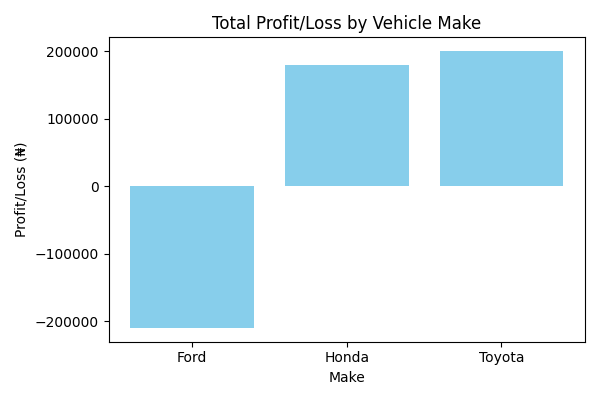
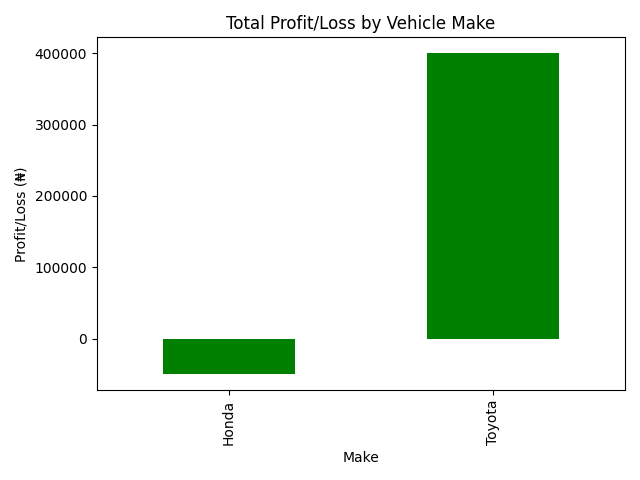
Add files via upload

diff --git a/app.py b/app.py
@@ -1,1 +1,154 @@
-# Placeholder for Abode Car Business Management App
+import streamlit as st
+import pandas as pd
+import os
+from PIL import Image
+
+# Load logo
+if os.path.exists("abode_logo.png"):
+    st.image("abode_logo.png", width=120)
+
+st.title("Abode Car Business Management App")
+
+# Login system
+if "logged_in" not in st.session_state:
+    st.session_state.logged_in = False
+    st.session_state.role = None
+
+def login():
+    st.subheader("Login")
+    username = st.text_input("Username")
+    password = st.text_input("Password", type="password")
+    if st.button("Login"):
+        if username == "admin" and password == "admin123":
+            st.session_state.logged_in = True
+            st.session_state.role = "admin"
+        elif username == "staff" and password == "staff123":
+            st.session_state.logged_in = True
+            st.session_state.role = "staff"
+        else:
+            st.error("Invalid credentials")
+
+def logout():
+    st.session_state.logged_in = False
+    st.session_state.role = None
+    st.experimental_rerun()
+
+def load_inventory():
+    if os.path.exists("inventory.csv"):
+        return pd.read_csv("inventory.csv")
+    else:
+        return pd.DataFrame(columns=[
+            "Vehicle ID", "Make", "Model", "Year", "Purchase Price (₦)", "Import Charges (₦)",
+            "Repairs (₦)", "Other Expenses (₦)", "Exchange Rate", "Sale Price (₦)",
+            "Profit/Loss (₦)", "Profit/Loss ($)", "Status"
+        ])
+
+def save_inventory(df):
+    df.to_csv("inventory.csv", index=False)
+
+def calculate_profit(row):
+    total_cost = row["Purchase Price (₦)"] + row["Import Charges (₦)"] + row["Repairs (₦)"] + row["Other Expenses (₦)"]
+    profit_naira = row["Sale Price (₦)"] - total_cost
+    profit_dollar = profit_naira / row["Exchange Rate"] if row["Exchange Rate"] else 0
+    if profit_naira > 0:
+        status = "Gain"
+    elif profit_naira < 0:
+        status = "Loss"
+    else:
+        status = "Break-even"
+    return pd.Series([profit_naira, profit_dollar, status])
+
+def admin_dashboard():
+    st.subheader("Admin Dashboard")
+    df = load_inventory()
+
+    st.subheader("Add Vehicle")
+    with st.form("add_vehicle"):
+        vehicle_id = st.text_input("Vehicle ID")
+        make = st.text_input("Make")
+        model = st.text_input("Model")
+        year = st.number_input("Year", min_value=1980, max_value=2030, step=1)
+        purchase_price = st.number_input("Purchase Price (₦)", min_value=0.0)
+        import_charges = st.number_input("Import Charges (₦)", min_value=0.0)
+        repairs = st.number_input("Repairs (₦)", min_value=0.0)
+        other_expenses = st.number_input("Other Expenses (₦)", min_value=0.0)
+        exchange_rate = st.number_input("Exchange Rate", min_value=1.0, value=1000.0)
+        sale_price = st.number_input("Sale Price (₦)", min_value=0.0)
+        submitted = st.form_submit_button("Add Vehicle")
+        if submitted:
+            new_row = {
+                "Vehicle ID": vehicle_id,
+                "Make": make,
+                "Model": model,
+                "Year": year,
+                "Purchase Price (₦)": purchase_price,
+                "Import Charges (₦)": import_charges,
+                "Repairs (₦)": repairs,
+                "Other Expenses (₦)": other_expenses,
+                "Exchange Rate": exchange_rate,
+                "Sale Price (₦)": sale_price
+            }
+            profit_loss = calculate_profit(pd.Series(new_row))
+            new_row["Profit/Loss (₦)"] = profit_loss[0]
+            new_row["Profit/Loss ($)"] = profit_loss[1]
+            new_row["Status"] = profit_loss[2]
+            df = pd.concat([df, pd.DataFrame([new_row])], ignore_index=True)
+            save_inventory(df)
+            st.success("Vehicle added successfully.")
+
+    st.subheader("Inventory Summary")
+    st.dataframe(df)
+
+    st.subheader("Delete Vehicle")
+    delete_id = st.text_input("Enter Vehicle ID to delete")
+    if st.button("Delete"):
+        df = df[df["Vehicle ID"] != delete_id]
+        save_inventory(df)
+        st.success(f"Vehicle ID {delete_id} deleted.")
+
+    st.subheader("Export Report")
+    if st.button("Export to CSV"):
+        df.to_csv("Abode_Inventory_Report.csv", index=False)
+        st.success("Report exported to Abode_Inventory_Report.csv")
+    if st.button("Export to Excel"):
+        df.to_excel("Abode_Inventory_Report.xlsx", index=False)
+        st.success("Report exported to Abode_Inventory_Report.xlsx")
+
+    st.subheader("Charts")
+    if not df.empty:
+        profit_by_make = df.groupby("Make")["Profit/Loss (₦)"].sum()
+        fig1 = plt.figure()
+        profit_by_make.plot(kind="bar", color="green")
+        plt.title("Total Profit/Loss by Vehicle Make")
+        plt.ylabel("Profit/Loss (₦)")
+        plt.tight_layout()
+        fig1.savefig("profit_by_make.png")
+        st.image("profit_by_make.png")
+
+        count_by_make = df["Make"].value_counts()
+        fig2 = plt.figure()
+        count_by_make.plot(kind="bar", color="blue")
+        plt.title("Number of Vehicles by Make")
+        plt.ylabel("Count")
+        plt.tight_layout()
+        fig2.savefig("vehicle_count_by_make.png")
+        st.image("vehicle_count_by_make.png")
+
+def staff_dashboard():
+    st.subheader("Staff Dashboard")
+    df = load_inventory()
+    st.dataframe(df)
+
+    st.subheader("Charts")
+    if not df.empty:
+        st.image("profit_by_make.png")
+        st.image("vehicle_count_by_make.png")
+
+if not st.session_state.logged_in:
+    login()
+else:
+    st.sidebar.button("Logout", on_click=logout)
+    if st.session_state.role == "admin":
+        admin_dashboard()
+    elif st.session_state.role == "staff":
+        staff_dashboard()
